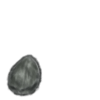
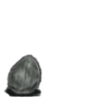
Improvements to imagetest

Changed region(s): [[0.03, 0.84, 0.42, 0.99]]

diff --git a/www/imgtest.php b/www/imgtest.php
@@ -37,7 +37,7 @@ function snake($x, $y, $angle) {
 		);
 }
 
-function selectStamp($vege, $row) {
+function selectStamp($vege, $row, $utype) {
 	$possibilities = array();
 	
 	switch ($vege["green"]) {
@@ -184,12 +184,39 @@ function selectStamp($vege, $row) {
 	for ($i = 0;$i<$bush1;$i++) $array[] = "bush1";
 	for ($i = 0;$i<$bush2;$i++) $array[] = "bush2";
 	for ($i = 0;$i<$bush3;$i++) $array[] = "bush3";
-	for ($i = 0;$i<$rock1;$i++) $array[] = "rock1";
-	for ($i = 0;$i<$rock2;$i++) $array[] = "rock2";
-	for ($i = 0;$i<$rock3;$i++) $array[] = "rock3";
-	for ($i = 0;$i<$rock4;$i++) $array[] = "rock4";
-	for ($i = 0;$i<$rock5;$i++) $array[] = "rock5";
-	for ($i = 0;$i<$rock6;$i++) $array[] = "rock6";
+	
+	if ($utype == "moss") {
+		for ($i = 0;$i<$rock1;$i++) $array[] = "rockmoss1";
+		for ($i = 0;$i<$rock2;$i++) $array[] = "rockmoss2";
+		for ($i = 0;$i<$rock3;$i++) $array[] = "rockmoss3";
+		for ($i = 0;$i<$rock4;$i++) $array[] = "rockmoss4";
+		for ($i = 0;$i<$rock5;$i++) $array[] = "rockmoss5";
+		for ($i = 0;$i<$rock6;$i++) $array[] = "rockmoss6";
+	}
+	else if ($utype == "grass") {
+		for ($i = 0;$i<$rock1;$i++) $array[] = "rockgrass1";
+		for ($i = 0;$i<$rock2;$i++) $array[] = "rockgrass2";
+		for ($i = 0;$i<$rock3;$i++) $array[] = "rockgrass3";
+		for ($i = 0;$i<$rock4;$i++) $array[] = "rockgrass4";
+		for ($i = 0;$i<$rock5;$i++) $array[] = "rockgrass5";
+		for ($i = 0;$i<$rock6;$i++) $array[] = "rockgrass6";
+	}
+	else if ($utype == "water") {
+		for ($i = 0;$i<$rock1;$i++) $array[] = "rockwater1";
+		for ($i = 0;$i<$rock2;$i++) $array[] = "rockwater2";
+		for ($i = 0;$i<$rock3;$i++) $array[] = "rockwater3";
+		for ($i = 0;$i<$rock4;$i++) $array[] = "rockwater4";
+		for ($i = 0;$i<$rock5;$i++) $array[] = "rockwater5";
+		for ($i = 0;$i<$rock6;$i++) $array[] = "rockwater6";
+	}
+	else {
+		for ($i = 0;$i<$rock1;$i++) $array[] = "rock1";
+		for ($i = 0;$i<$rock2;$i++) $array[] = "rock2";
+		for ($i = 0;$i<$rock3;$i++) $array[] = "rock3";
+		for ($i = 0;$i<$rock4;$i++) $array[] = "rock4";
+		for ($i = 0;$i<$rock5;$i++) $array[] = "rock5";
+		for ($i = 0;$i<$rock6;$i++) $array[] = "rock6";
+	}
 	
 	if (empty($array)) $array[] = "rockmoss1";
 	
@@ -222,10 +249,20 @@ $ter4 = imagecreatefrompng('graphics/moss1.png');
 $ter42 = imagecreatefrompng('graphics/moss2.png');
 $ter43 = imagecreatefrompng('graphics/moss3.png');
 
-$ters = array($ter1, $ter2, $ter3);
+$ter5 = imagecreatefrompng('graphics/under1.png');
+$ter52 = imagecreatefrompng('graphics/under2.png');
+$ter53 = imagecreatefrompng('graphics/under3.png');
+
+$ter6 = imagecreatefrompng('graphics/bedrock1.png');
+$ter62 = imagecreatefrompng('graphics/bedrock2.png');
+$ter63 = imagecreatefrompng('graphics/bedrock3.png');
+
+$ters = array($ter1, $ter2, $ter3, $ter6);
 $sands = array($ter1, $ter12, $ter13);
 $grasses = array($ter2, $ter22, $ter23);
 $mosses = array($ter4, $ter42, $ter43);
+$unders = array($ter5, $ter52, $ter53);
+$bedrocks = array($ter6, $ter62, $ter63);
 
 $stamp_images = array(
 	array("name" => "tree1", "x1" => 20, "y1" => 80, "x2" => 70, "y2" => 100 ),
@@ -258,7 +295,7 @@ $stamp_images = array(
 	array("name" => "rockgrass6", "x1" => 0, "y1" => 80, "x2" => 40, "y2" => 100 )
 	);
 
-for ($i = 0; $i< sizeof($stamp_images)-1; $i++) {
+for ($i = 0; $i< sizeof($stamp_images); $i++) {
 	$stamps[$stamp_images[$i]["name"]] = imagecreatefrompng("graphics/". $stamp_images[$i]["name"] . ".png");
 }
 
@@ -268,37 +305,53 @@ $top = imagecreatetruecolor(1000,700);
 $transparency = imagecolorallocatealpha($top, 0, 0, 0, 127);
 imagefill($top, 0, 0, $transparency);
 
-$spacing = rand(100,900);
-
-
 for ($row = -20; $row<=680; $row+=70) {
 		for ($i = -20; $i<1000; $i+=70) {
-			$bottom = applyStamp($bottom, $ters[1], $i, $row);
+			$bottom = applyStamp($bottom, $ters[3], $i, $row);
 		}
 }
 
-$grasscount = rand(1,10);
+$chance = rand(10,70);
+$topstamps = array();
+$snakescount = rand(2,10);
 
-for ($j = 0; $j<$grasscount; $j++) {
+for ($j = 0; $j<$snakescount; $j++) {
 	$prevx = rand(0,1000);
 	$prevy = rand(0,700);
 	$preva = rand(0,364);
 	$snakelength = rand(10,200);
 	
-	$type = rand(0,2);
-	if ($type==2) {
+	$type = rand(0,4);
+	if ($type==1) {
+		$cur2 = $unders;
+		$rotate = false;
+		$utype = "undergrowth";
+	}
+	else if ($type==2) {
 		$cur2 = $mosses;
 		$rotate = false;
+		$utype = "moss";
+	}
+	else if ($type==3) {
+		$cur2 = $grasses;
+		$rotate = false;
+		$utype = "grass";
+	}
+	else if ($type==4) {
+		$cur2 = $bedrocks;
+		$rotate = false;
+		$utype = "rock";
 	}
 	else {
 		$cur2 = $sands;
 		$rotate = false;
+		$utype = "sand";
 	}
 	
 	for ($i = 0; $i<$snakelength; $i++) {
 		$cur = $cur2[rand(0,2)];
 		imagesavealpha($cur, true);
-		$new = snake($prevx, $prevy, $preva);
+		$new = snake($prevx, $prevy, $preva, $utype);
 		if ($rotate) {
 			$transparency = imagecolorallocatealpha($cur, 0, 0, 0, 127);
 			$cur = imagerotate($cur, -$new["a"], $transparency);
@@ -307,19 +360,25 @@ for ($j = 0; $j<$grasscount; $j++) {
 		$prevx = $new["x"];
 		$prevy = $new["y"];
 		$preva = $new["a"];
+		
+		if (rand(0,100)<$chance) {
+			$stampname = selectStamp($vegeLevel, $rowLevel, $utype);
+			$a = round($new["x"]/30);
+			$b = round($new["y"]/30);
+			$name = "x" . $a . "_" . $b;
+			$topstamps[$name] = array("name" => $stampname, "x" => $new["x"], "y" => $new["y"]);		
+		}
 	}
 }
 
-$newmin=20;
-for ($row = rand(0,$spacing/4); $row<600; $row+=rand(20,max($newmin,$spacing/4))) {
-		for ($i = rand(0,$spacing); $i<900; $i+=rand($newmin,$spacing)) {
-			$stampname = selectStamp($vegeLevel, $rowLevel);
-			$entry = searchSingle($stamp_images, "name", $stampname);
-			$top = applyStamp($top, $stamps[$stampname], $i, $row);
-			$newmin = $entry["x2"];
-		}
+if (!empty($topstamps)) {
+	aasort($topstamps, "y");
+	foreach ($topstamps as $ts) {
+		$stampname = $ts["name"];
+		//echo $ts["x"] .",". $ts["y"] . "<br>";
+		$top = applyStamp($top, $stamps[$stampname], $ts["x"], $ts["y"]);
+	}
 }
-
 applyStamp($bottom, $top, 0, 0);
 
 // Output and free memory
